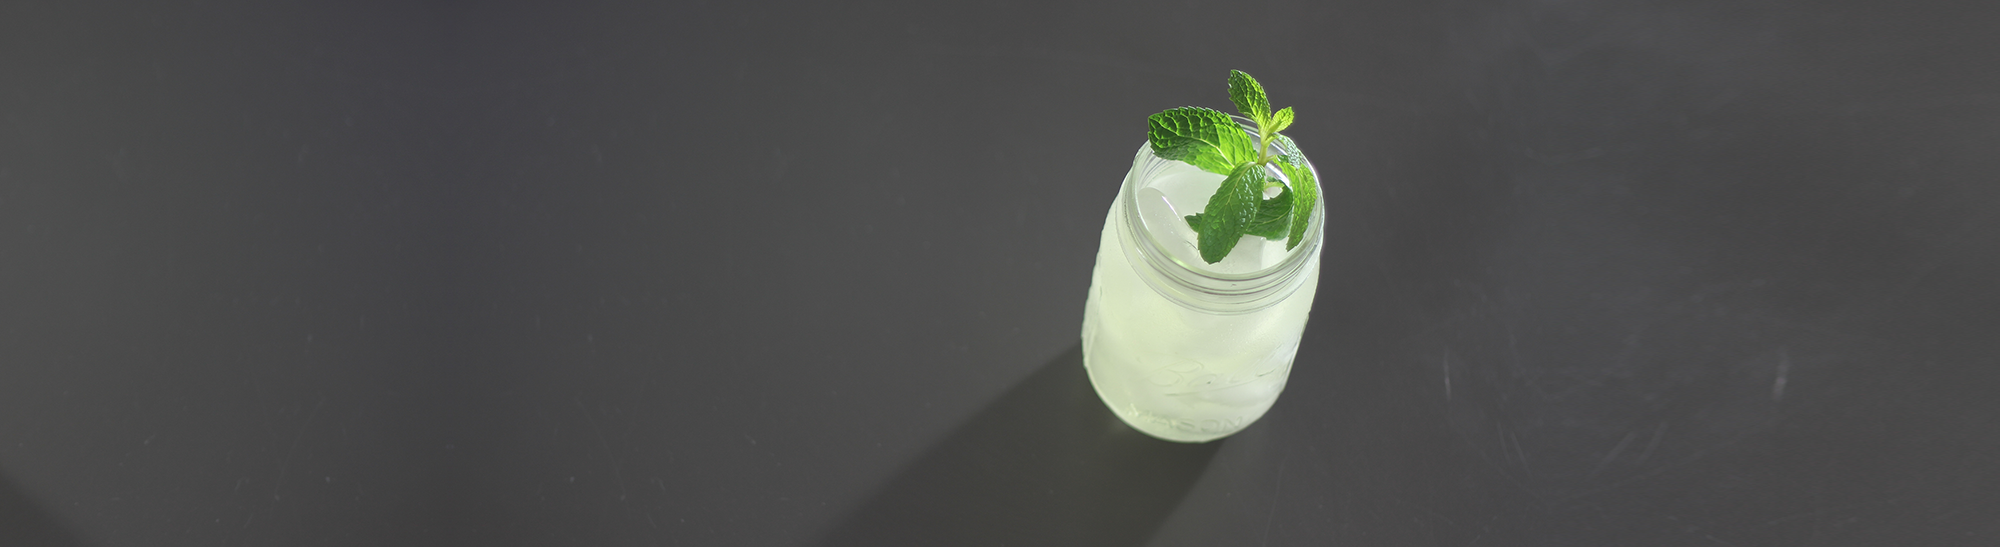
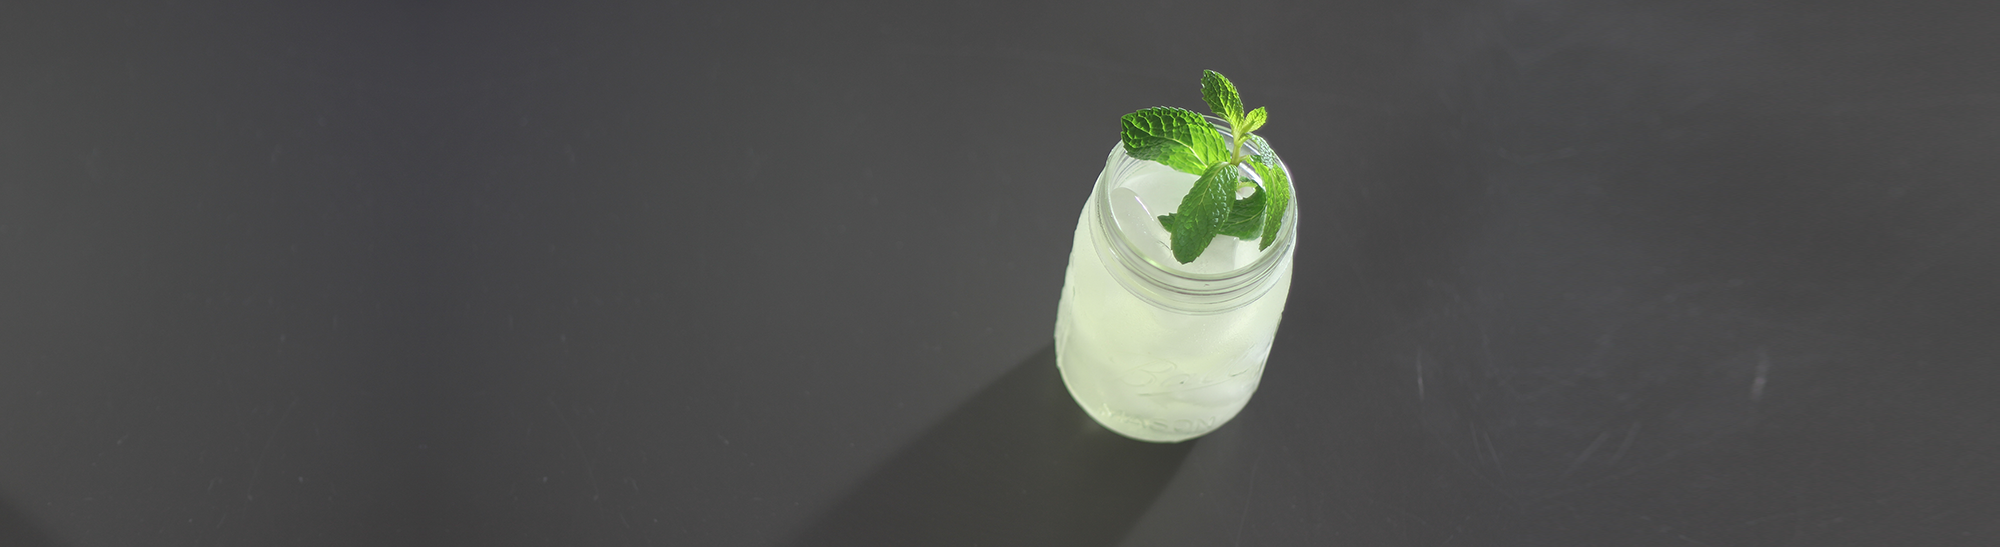
Fixed the front page for mobile

Changed region(s): [[0.527, 0.1243, 0.682, 0.808]]

diff --git a/app/assets/stylesheets/snootybird.css.scss b/app/assets/stylesheets/snootybird.css.scss
@@ -1,6 +1,6 @@
 .drink-title {
 	padding-top: 0px;
-	background-color: rgb(67,66,72);
+	background-color: rgb(66,66,64);
 	background-image: asset-url("title-image-01.png");
 	background-repeat: no-repeat;
 	background-size: auto 547px;
@@ -17,8 +17,13 @@
 .title-body {
 }
 
+.title-column {
+	padding-right: 0px;
+	padding-left: 0px;
+}
+
 h1.h1-title {
-	font-size: 50px;
+	font-size: 45px;
 	color: rgb(215,227,215);
 	padding-top: 20px;
 }
@@ -80,6 +85,11 @@ div.rowspace25 {
 	margin-bottom: auto;
 }
 
-p.spaced {
+.spaced {
 	margin-top: 30px !important;
+}
+
+#backup-book-image {
+	width: 100%;
+	max-width: 350px;
 }
